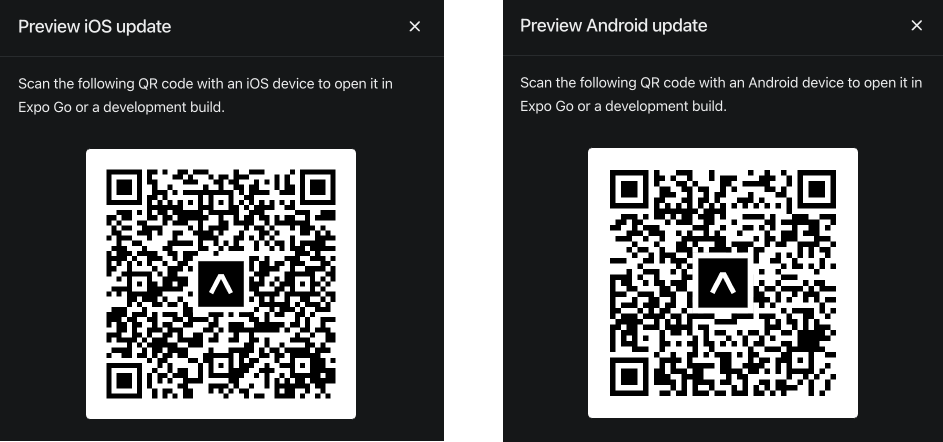
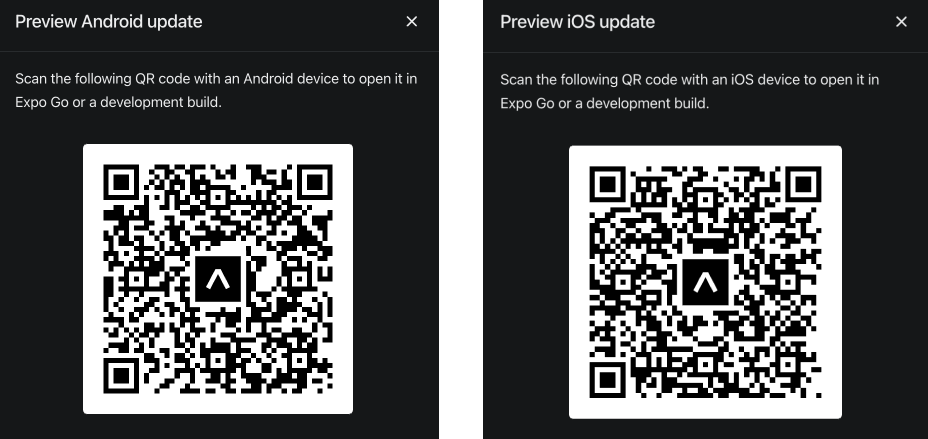
update preview QR images

diff --git a/README.md b/README.md
@@ -6,7 +6,7 @@ A task manager mobile application that optimises productivity by integrating tas
 
 Open the link below or scan the QR code for your device to view the app on Expo Go.
 
--   Link: exp://u.expo.dev/update/f74b5490-daf6-4792-a19d-046d7a122486
+-   Link: exp://u.expo.dev/update/ad31da8d-0309-4e97-b8bf-c76281635fef
 
 <img src="https://github.com/jxne00/taskery/blob/master/src/assets/demos/qrlinks.png" alt="QR Code for opening the app on Expo Go" width="800">
 
